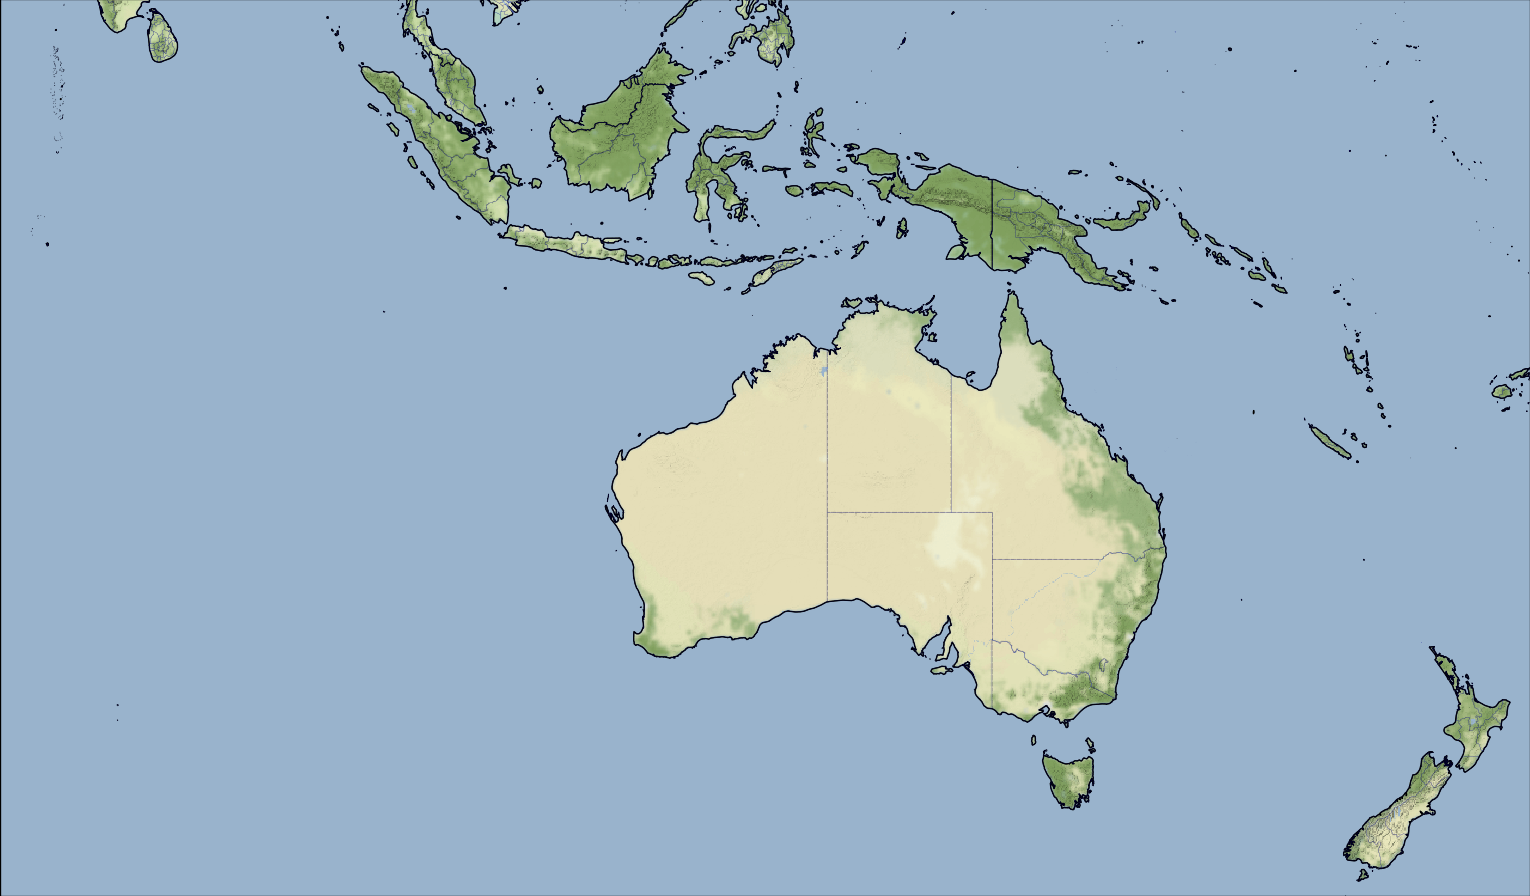
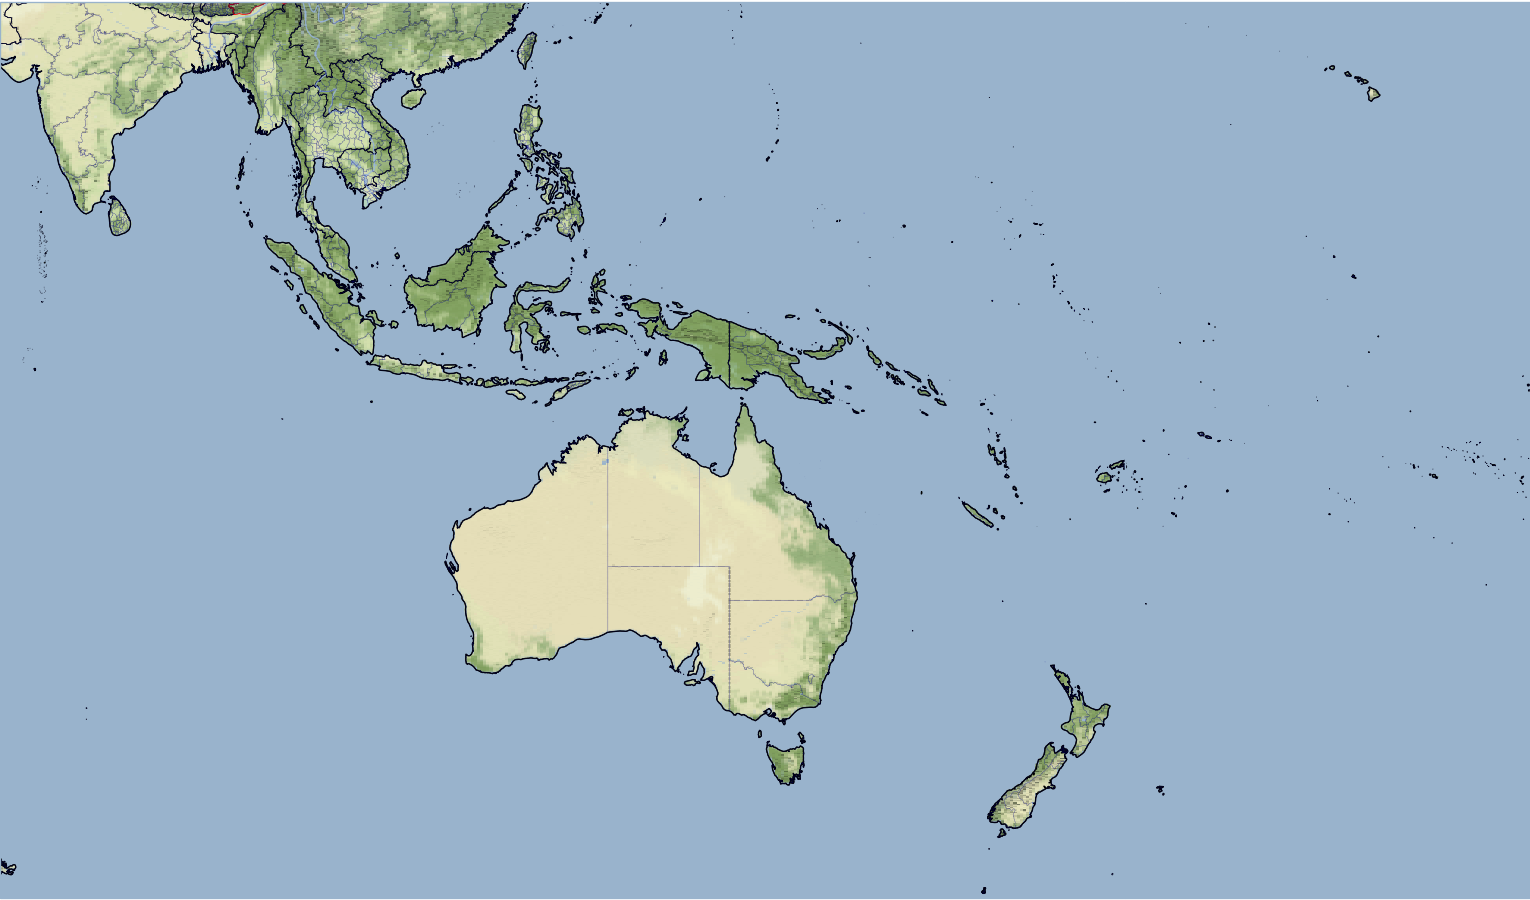
udpate

diff --git a/plot_hist.py b/plot_hist.py
@@ -62,10 +62,10 @@ def geoToMerc(room,lat,lon):
         max_lon = 158.
         lat_ts = 0.
     elif (room == "Oceania"):
-        zero_lat = 10.5
-        max_lat = -48.
+        zero_lat = 28
+        max_lat = -51.2.
         min_lon = 69.
-        max_lon = 180.
+        max_lon = 220.
         lat_ts = 0.
     elif (room == "SAmerica"):
         zero_lat = 24.
@@ -74,7 +74,11 @@ def geoToMerc(room,lat,lon):
         max_lon = 17.
         lat_ts = 0.
     # get col value
-    col = (lon - min_lon) * (MAP_WIDTH / (max_lon - min_lon));
+
+    if (lon < min_lon):
+        col = (lon + 360 - min_lon) * (MAP_WIDTH / (max_lon - min_lon));
+    else: 
+        col = (lon - min_lon) * (MAP_WIDTH / (max_lon - min_lon));
     # convert from degrees to radians
     latRad = lat * np.pi / 180;
 
@@ -107,7 +111,7 @@ $(document).ready(function() {
             { title: "Type", "width": "5%%"},
             { title: "Country", "width": "5%%" },
             { title: "Admin", "width": "5%%"},
-            { title: "City", "width": "5%%" },
+            { title: "City", "width": "10%%" },
             { title: "Avg Dist (km)", "width": "5%%" },
             { title: "Std Dist (km)", "width": "5%%" },
             { title: "# Clicks", "width": "5%%" },
@@ -158,6 +162,7 @@ def writeIndex():
         f.write("""
 <!DOCTYPE html>
 <head prefix="og: http://ogp.me/ns#">
+    <meta charset="UTF-8">
     <meta name="description" content="Plots for Geoscents. An online multiplayer world geography game!  Test your knowledge of city locations." />
     <title>GeoScents Plots</title>
     <!-- Place this tag in your head or just before your close body tag. -->
@@ -192,9 +197,13 @@ This page is updated approximately every 24 hours.  Raw data can be found <a hre
 </html>
 """ % update_stamp)
 
+def initCount():
+    with open(outdir_prefix + "/plots/counts.js", 'w+') as f:
+        f.write("")
+
 def writeCount(count):
     with open(outdir_prefix + "/plots/counts.js", 'a') as f:
-        f.write("document.getElementById(\"" + continent + "_count\").innerHTML = \"(" + str(count) + " clicks)\";")
+        f.write("\ndocument.getElementById(\"" + continent + "_count\").innerHTML = \"(" + str(count) + " clicks)\";")
 
 def writeCss():
     with open(outdir_prefix + "/plots/theme.css", 'w+') as f:
@@ -322,7 +331,7 @@ def writeHtml(continent):
 <button class="%sroom-btn" onclick="window.location.href = 'Oceania.html';">Oceania<br><small><div id="Oceania_count"></div></small></button>
 <button class="%sroom-btn" onclick="window.location.href = 'NAmerica.html';">N. America<br><small><div id="NAmerica_count"></div></small></button>
 <button class="%sroom-btn" onclick="window.location.href = 'SAmerica.html';">S. America<br><small><div id="SAmerica_count"></div></small></button>
-<h1>Data Table for %s Map</h1>
+<h1>Data Table for %s Map <a href="all_%s.jpg"><img src="all_%s.jpg" class="img-thumbnail" alt="link" height=75px></a></h1>
 <small>(Last updated %s)</small><br>
 <button id="all" class="filter-btn">Show All</button>
 <button id="aggregates" class="filter-btn">Show Aggregates Only</button>
@@ -333,7 +342,7 @@ def writeHtml(continent):
 </body>
 </html>
 
-""" % (continent, continent, specialworld,specialtrivia,specialeurope,specialafrica,specialasia,specialoceania,specialnamerica,specialsamerica,continent, update_stamp, continent, continent))
+""" % (continent, continent, specialworld,specialtrivia,specialeurope,specialafrica,specialasia,specialoceania,specialnamerica,specialsamerica,continent,continent,continent, update_stamp, continent, continent))
 
 
 def nextColor(color_idx, num_colors):
@@ -359,6 +368,7 @@ color_idx = 0
 dpi = 250
 
 mapFilter = '' if (sys.argv) == 1 else sys.argv[1]
+initCount() 
 for path in [x for x in pathlist if mapFilter in str(x)]:
     # because path is object not string
     file = str(path)
@@ -378,6 +388,8 @@ for path in [x for x in pathlist if mapFilter in str(x)]:
         aggregate_player_countries = {} 
         entriesSummary = []
         continentSummary = []
+        continentTrueXs = []
+        continentTrueYs = []
         data = json.load(json_file)
         entry_id = 0
         for entry in data:
@@ -426,7 +438,7 @@ for path in [x for x in pathlist if mapFilter in str(x)]:
                 reghist = '<a href=\\"%s\\"><img src=\\"%s\\" class=\\"img-thumbnail\\" alt=\\"link\\" height=40px></a>' % (fname, fname)
                 anim = '<a href=\\"%s\\"><img src=\\"%s\\" class=\\"img-thumbnail\\" alt=\\"link\\" height=40px></a>' % (anim_name + '.gif', continent + '.jpg')
                 link = "https://en.wikipedia.org/wiki/Special:Search?search=" + stripSpecial(entry) + "&go=Go&ns0=1" if ('wiki' not in data[entry]) else data[entry]['wiki']
-                linkedEntry = '<a href=\\"%s\\">%s</a>' % (link, stripSpecial(data[entry]['city'])) 
+                linkedEntry = '<a href=\\"%s\\">%s</a>' % (link, data[entry]['city']) 
                 addJs('"Entry","' + country + '","' + admin + '","' + linkedEntry + '","' + '%.1f' % mean_dist + '","' + '%.1f' % std_dist + '","' + str(len(dist_data)) + '","' + reghist + '","' + anim + '"')
 
                 if (entry_id == 1):
@@ -437,6 +449,9 @@ for path in [x for x in pathlist if mapFilter in str(x)]:
                     plt.clf()
                     plt.close()
 
+                true_x, true_y = (0,0) if "true_lat" not in data[entry] else geoToMerc(continent, data[entry]["true_lat"], data[entry]["true_lon"]) 
+                continentTrueXs.append(true_x)
+                continentTrueYs.append(true_y)
                 if (generate_gifs):
                     # Generate animation
                     fileList = glob.glob(outdir_prefix + '/plots/raw_animation_' + continent + '*')
@@ -470,7 +485,6 @@ for path in [x for x in pathlist if mapFilter in str(x)]:
                     plt.xlim([0,MAP_WIDTH])
                     plt.title(entry)
                     plt.axis('off')
-                    true_x, true_y = (0,0) if "true_lat" not in data[entry] else geoToMerc(continent, data[entry]["true_lat"], data[entry]["true_lon"]) 
                     plt.scatter([true_x], [true_y], marker='*', color='w', s = 20, edgecolors = 'black')
                     frame = 0
                     legend_countries = []
@@ -529,8 +543,19 @@ for path in [x for x in pathlist if mapFilter in str(x)]:
                 print(exc_type, fname, exc_tb.tb_lineno)
 
 
-        # Report total count for continent
+        # Report total count for continent and make continent aggregate map
         writeCount(continent_count)
+        plt.figure(figsize=(MAP_WIDTH/dpi, MAP_HEIGHT/dpi), dpi=dpi)
+        plt.imshow(continent_map)
+        ax = plt.gca()
+        plt.ylim([MAP_HEIGHT,0])
+        plt.xlim([0,MAP_WIDTH])
+        plt.title("All " + str(len(continentTrueXs)) + " entries for " + continent)
+        plt.axis('off')
+        for i in range(len(continentTrueXs)):
+            x,y = continentTrueXs[i], continentTrueYs[i]
+            plt.scatter([x], [y], marker='*', color='w', s = 20, edgecolors = 'black')
+        plt.savefig(outdir_prefix + '/plots/all_' + continent + ".jpg", optimize=True)
 
         # Add aggregate for each country
         if (continent != "Trivia"): 
